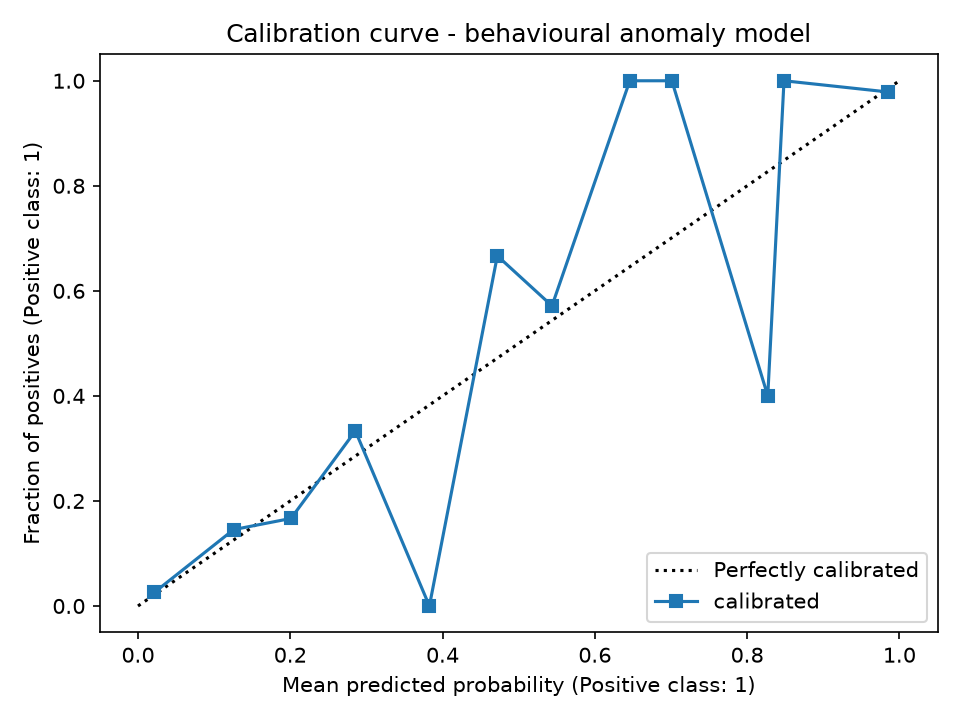
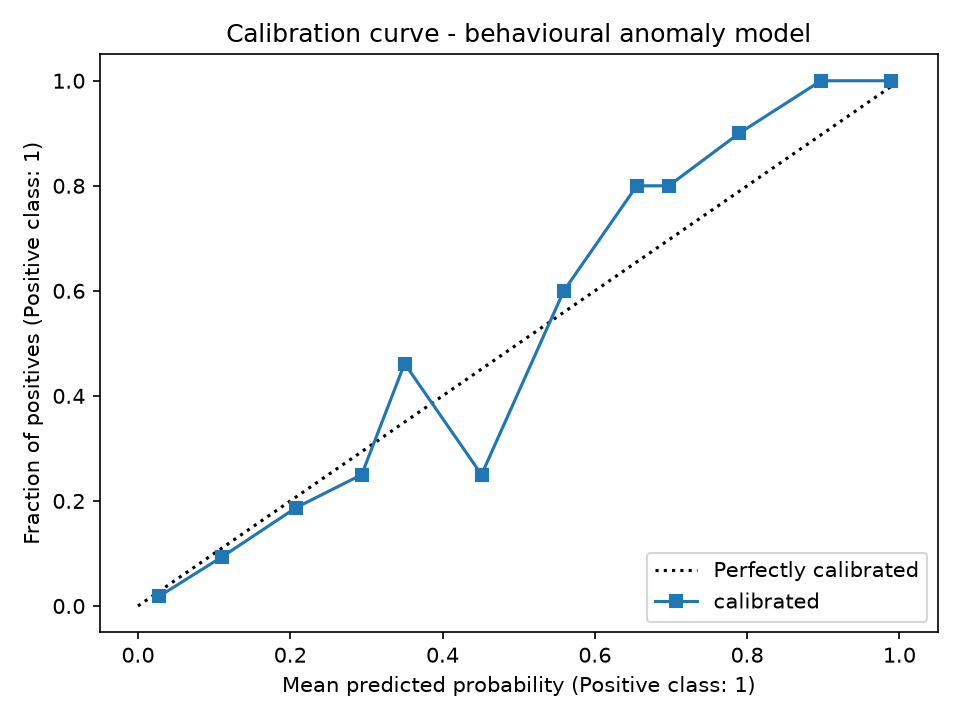
fix(ml): remove two deterministic label tells from the behavioural simulator
Auditing the generated data directly - rather than trusting the aggregate
metrics - found two features whose values could imply the label with
certainty:

  - distinct_workstations: normal sessions were hardcoded to one machine, so
    any session showing two was guaranteed anomalous (64 sessions perfectly
    separable, feature importance 0.0619). Normal sessions now show two
    workstations 4% of the time, as a student moving seats or reconnecting
    legitimately produces this.
  - day_of_week: normal sessions could only fall on days 0-5, so any Sunday
    session implied the label. Sunday is now reachable for normal sessions.

Both slipped past the solo-feature AUC screen because each affected only a
small subset and barely moved the aggregate. Class purity per feature value
is now checked separately.

Fixing these LOWERED the headline metrics - CV F1-macro 0.8372 -> 0.7920,
credential_sharing recall 0.75 -> 0.48 - which is the point: the earlier
figures were inflated by leakage.

Also removed a structural cap that made high USB counts anomalous by
construction, documented is_guest_account as an explicit negative control
(importance 0.0075, independent of the label by design, so its low
importance is a property of the simulation and not a finding), and made all
reported thresholds use calibrated probabilities so the headline table is no
longer mixing calibrated and uncalibrated rows.

diff --git a/ml/behavioral/simulate.py b/ml/behavioral/simulate.py
@@ -54,7 +54,11 @@ def _heartbeats(rng, duration, gap_mean, gap_max):
 def _normal_session(rng) -> dict:
     # Class hours with small legitimate tails either side.
     start_hour = int(np.clip(rng.normal(12.0, 2.6), 7, 19))
-    day_of_week = int(rng.choice([0, 1, 2, 3, 4, 5], p=[0.19, 0.19, 0.19, 0.19, 0.19, 0.05]))
+    # Sunday must remain reachable for normal sessions: if only anomalies can
+    # fall on day 6, the day itself becomes a deterministic tell.
+    day_of_week = int(
+        rng.choice([0, 1, 2, 3, 4, 5, 6], p=[0.188, 0.188, 0.188, 0.188, 0.188, 0.045, 0.015])
+    )
     duration = float(np.clip(rng.lognormal(np.log(58), 0.48), 12, 190))
 
     gap_mean = float(np.clip(rng.normal(5.4, 0.9), 4.2, 11))
@@ -71,7 +75,15 @@ def _normal_session(rng) -> dict:
         "chat_request_count": int(np.clip(rng.poisson(4.0), 0, 60)),
         "tool_invoke_count": int(np.clip(rng.poisson(2.0), 0, 40)),
         "file_op_count": int(np.clip(rng.poisson(2.2), 0, 50)),
-        "distinct_workstations": 1,
+        # A student moving seats or reconnecting on another machine mid-session
+        # legitimately produces two workstations. If only anomalies could show
+        # >1, the feature would deterministically imply the label.
+        "distinct_workstations": int(rng.choice([1, 2], p=[0.96, 0.04])),
+        # NEGATIVE CONTROL: deliberately independent of the label. Its
+        # importance should come out near zero, confirming the model does not
+        # manufacture signal where none exists. Its low importance is
+        # therefore a property of the simulation, not a finding about
+        # account type in the real system.
         "is_guest_account": bool(rng.random() < 0.08),
     }
 
@@ -88,7 +100,9 @@ def _normal_session(rng) -> dict:
             elif drift == 2:
                 s["blocked_url_count"] = int(rng.integers(3, 10))
             elif drift == 3:
-                s["usb_insert_count"] = int(rng.integers(2, 5))
+                # Upper end overlaps the anomalous range so no structural cap
+                # makes high USB counts exclusively anomalous by construction.
+                s["usb_insert_count"] = int(rng.integers(2, 7))
             elif drift == 4:
                 # A quiet but legitimate session: reading, not clicking.
                 s["app_launch_count"] = int(rng.integers(0, 2))

diff --git a/ml/behavioral/train_evaluate.py b/ml/behavioral/train_evaluate.py
@@ -239,11 +239,15 @@ def main() -> int:
             "anomaly_rate": round(float(y.mean()), 4),
             "source": "simulated (see simulate.py) - not real-world detection accuracy",
         },
-        "holdout_threshold_0.5": {
+        # All reported thresholds use calibrated probabilities so the rows are
+        # directly comparable. The uncalibrated argmax is kept separately for
+        # reference rather than mixed into the same table.
+        "holdout_uncalibrated_argmax": {
             "precision": round(float(precision_score(y_test, y_pred, zero_division=0)), 4),
             "recall": round(float(recall_score(y_test, y_pred, zero_division=0)), 4),
             "f1": round(float(f1_score(y_test, y_pred, zero_division=0)), 4),
         },
+        "holdout_calibrated_thresholds": thresholds,
         "holdout_operating_threshold": op,
         "roc_auc": round(roc, 4),
         "pr_auc": round(pr, 4),

diff --git a/ml/behavioral/README.md b/ml/behavioral/README.md
@@ -17,26 +17,27 @@ exactly; `reports/` is committed because those are the Chapter 4 artifacts.
 
 ## Headline results
 
-Held-out test set (800 sessions, never seen during training):
+Held-out test set (800 sessions, never seen during training). All rows use
+**calibrated** probabilities so they are directly comparable:
 
-| Metric | Threshold 0.5 | Threshold 0.7 (operating) |
-| --- | --- | --- |
-| Precision | 0.9375 | 0.9322 |
-| Recall | 0.5882 | 0.5392 |
-| F1 | 0.7229 | 0.6832 |
+| Metric | Threshold 0.5 | Threshold 0.7 (operating) | Threshold 0.9 |
+| --- | --- | --- | --- |
+| Precision | 0.8955 | **0.9592** | 1.0000 |
+| Recall | 0.6250 | **0.4896** | 0.2812 |
+| F1 | 0.7362 | **0.6483** | 0.4390 |
 
-ROC-AUC 0.9046 · PR-AUC 0.8087 · OOB 0.9444
+ROC-AUC 0.9096 · PR-AUC 0.8126
 
-5-fold stratified CV: F1-macro **0.8372 ± 0.0200**, ROC-AUC 0.9235 ± 0.0106.
+5-fold stratified CV: F1-macro **0.7920 ± 0.0359**, ROC-AUC 0.9096 ± 0.0200.
 
 Model selection (5-fold F1-macro on the training split):
 
 | Model | F1-macro | std |
 | --- | --- | --- |
-| **Random Forest** | **0.8448** | 0.0229 |
-| Decision Tree | 0.7853 | 0.0120 |
-| Naive Bayes | 0.7648 | 0.0366 |
-| Logistic Regression | 0.7088 | 0.0187 |
+| **Random Forest** | **0.7650** | 0.0175 |
+| Decision Tree | 0.7274 | 0.0287 |
+| Naive Bayes | 0.6859 | 0.0332 |
+| Logistic Regression | 0.6497 | 0.0230 |
 
 ## Interpreting the precision/recall balance
 
@@ -44,8 +45,8 @@ The operating threshold is 0.7, matching `CONFIDENCE_THRESHOLD` in
 `src/app/agentic/riskClassifier.ts`, so a session's anomaly probability is
 directly comparable against the value the escalation logic already uses.
 
-At that threshold the model is deliberately precision-favouring (0.93
-precision, 0.54 recall). In a computer laboratory a false positive is
+At that threshold the model is deliberately precision-favouring (0.96
+precision, 0.49 recall). In a computer laboratory a false positive is
 expensive — it escalates a student's ordinary session to staff review — so
 the model is tuned to be confident when it flags. The recall shortfall is
 not treated as undetected risk: missed sessions remain covered by the other
@@ -59,11 +60,11 @@ Recall by anomaly archetype at threshold 0.7:
 
 | Archetype | n | Recall |
 | --- | --- | --- |
-| unattended_idle | 21 | 0.81 |
-| credential_sharing | 20 | 0.75 |
-| policy_probing | 18 | 0.56 |
-| off_hours | 21 | 0.38 |
-| usb_heavy | 22 | 0.23 |
+| unattended_idle | 21 | 0.76 |
+| policy_probing | 20 | 0.60 |
+| credential_sharing | 21 | 0.48 |
+| off_hours | 17 | 0.29 |
+| usb_heavy | 17 | 0.24 |
 
 This spread is a result, not a defect. Behaviours with a distinctive
 *combination* of signals (a long session with heartbeats but no interaction;
@@ -97,10 +98,25 @@ workstations, and the audit event vocabulary the system actually emits.
 and (planned) runtime scoring, so served features cannot drift from trained
 features.
 
+## Negative control
+
+`is_guest_account` is generated **independently of the label** on purpose. It
+is a negative control: a feature the paper names ("account type") that is
+known by construction to carry no signal. Its importance comes out at
+**0.0075**, near the bottom of the ranking, which confirms the model does not
+manufacture signal where none exists.
+
+Its low importance is therefore a property of the simulation and must not be
+reported as a finding about account type in the real system. Whether guest
+(access-code) sessions actually carry different risk is an open question
+that only real labelled data can answer.
+
 ## Guarding against leakage
 
-Two modelling errors were found and corrected during development, both of
-which had produced a falsely perfect classifier:
+Four modelling errors were found and corrected during development. The first
+two produced a falsely perfect classifier; the second two were found by
+auditing the generated data directly rather than by trusting the aggregate
+metrics:
 
 1. **Categorical rather than degree-based anomalies.** The first generator
    perturbed 3–5 features at once into near-disjoint joint regions, giving
@@ -114,6 +130,30 @@ which had produced a falsely perfect classifier:
    — label noise, not subtlety. Off-hours severity now steps outward from
    the edge of the normal window (20:00) into the small hours.
 
+3. **`distinct_workstations` was a deterministic tell.** Normal sessions were
+   hardcoded to a single workstation, so *any* session showing two machines
+   was guaranteed anomalous — 64 sessions perfectly separable, and the model
+   was leaning on it (importance 0.0619). Normal sessions now show two
+   workstations 4% of the time, since a student moving seats or reconnecting
+   on another machine legitimately produces this. Importance fell to 0.0188
+   and `credential_sharing` recall fell from 0.75 to 0.48, showing how much
+   work the tell had been doing.
+4. **`day_of_week == 6` was a deterministic tell.** Normal sessions could
+   only be generated on days 0–5, so any Sunday session implied the label.
+   Sunday is now reachable for normal sessions (1.5%).
+
+Note that fixing 3 and 4 *lowered* the headline metrics (CV F1-macro 0.8372
+to 0.7920). That drop is the point: the earlier figures were inflated by
+leakage, and the current ones are what the feature set actually supports.
+
 `train_evaluate.py` re-runs a solo-feature AUC screen on every execution and
 warns if any single feature exceeds 0.95 AUC alone. Current maximum is
-**0.6123** (`file_op_count`), confirming no single feature encodes the label.
+**0.609**, confirming no single feature encodes the label.
+
+A solo-AUC screen alone is not sufficient, however — it did not catch errors
+3 and 4, because each affected only a small subset of sessions and so barely
+moved the aggregate AUC. Class purity per feature value was checked
+separately. No feature now has a structural cap that makes any region
+exclusively one class; the single-class regions that remain are ordinary
+distribution tails (for example, very high blocked-URL counts), which is
+expected and realistic rather than an artifact.
